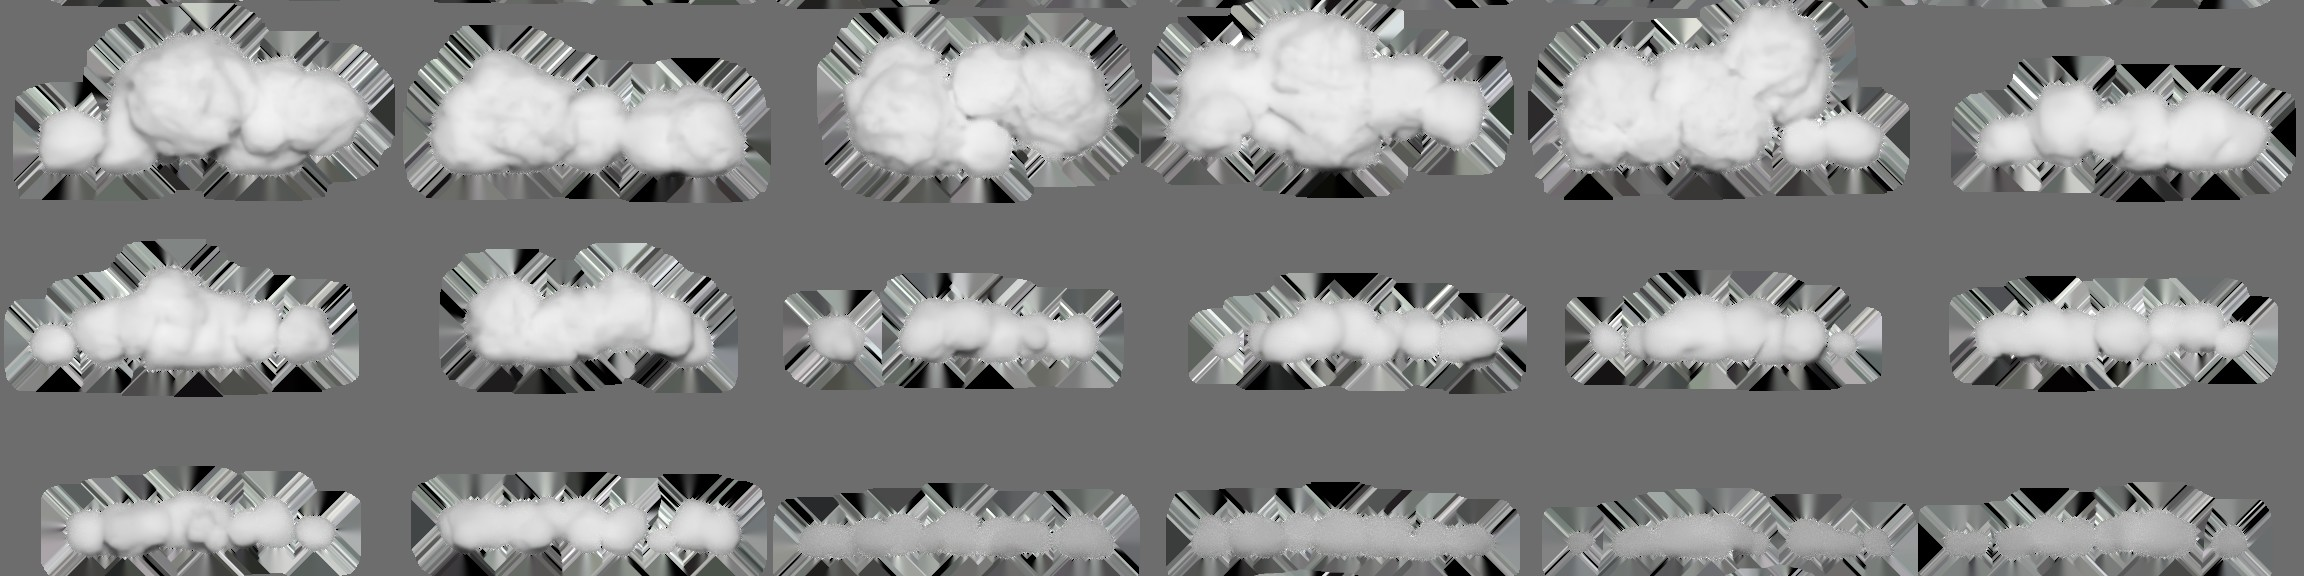
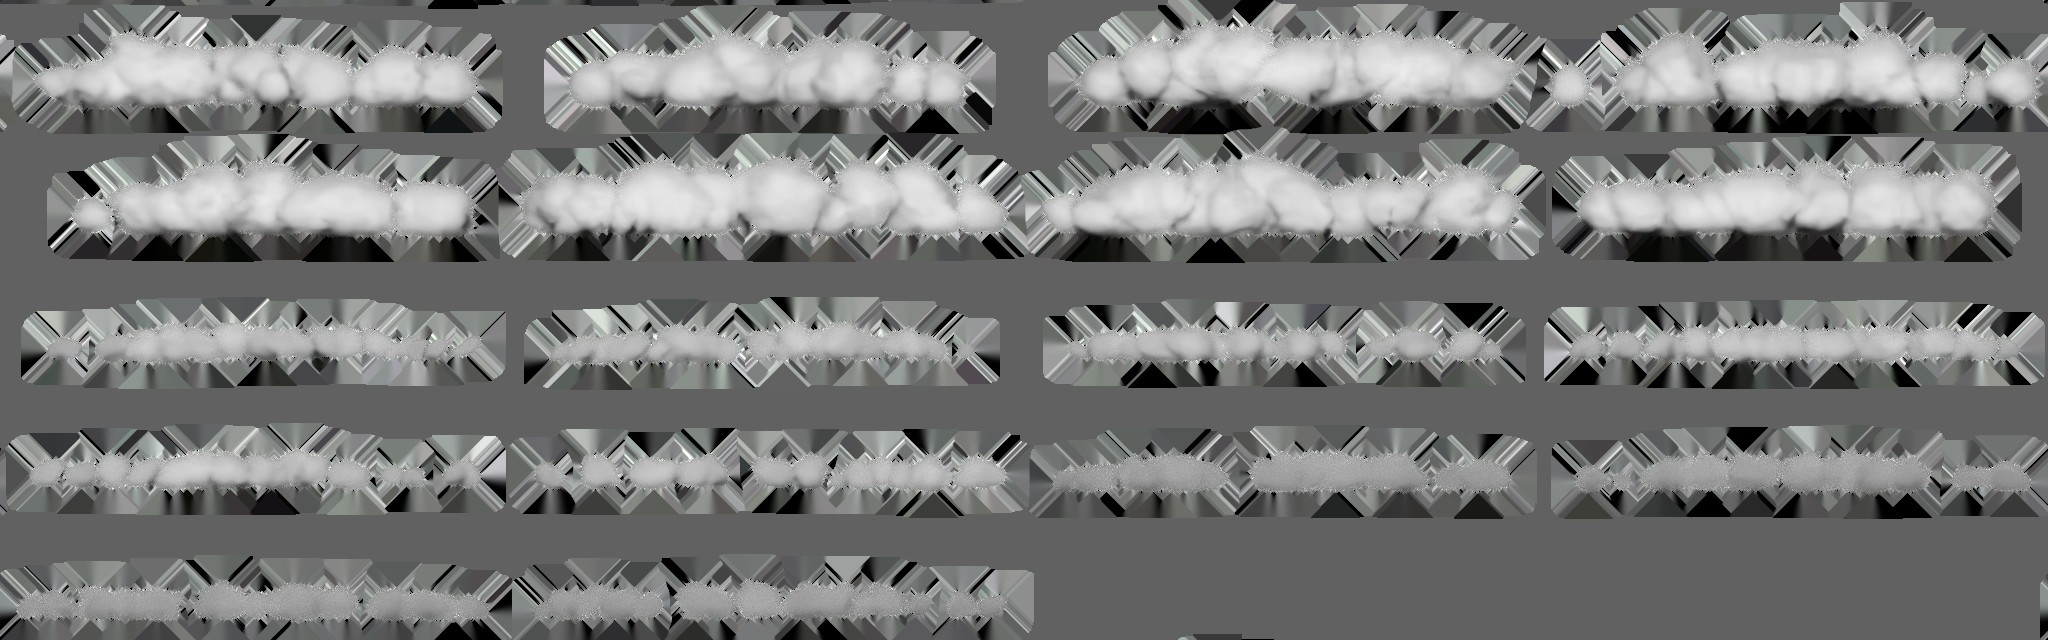
Make the clouds broader, flatter and see-through near the sun
Re-render the cloud sprites as wide stratocumulus slabs, altocumulus sheets and
feathery high patches with ragged, thin edges. Scatter fewer, larger pieces so
the sky covered matches the forecast, part them around the sun as far as the
forecast says it shows, tone down the backlit rims and remove half-faded ghosts.

Claude-Session: https://claude.ai/code/session_01Huiiu14ivU9DpxLptya8pi

diff --git a/index.html b/index.html
@@ -694,9 +694,9 @@ function sunLayers(az, app) {
 const SKYI = {rel0: -100, alt1: 30, ppd: 16, w: 3840, h: 736};
 const LANDI = {az0: 200, alt1: 20, ppd: 24, w: 4800, h: 864};   // replaced by land_meta.json once loaded
 const DECKS = [ // cloud base height (m), sprite kind, angular width of one cloud (rad), wind multiplier at that height
-  {key: "cloud_cover_high", kind: "high", h: 9000, ang: .22, wind: 3},
-  {key: "cloud_cover_mid", kind: "mid", h: 4000, ang: .17, wind: 2},
-  {key: "cloud_cover_low", kind: "low", h: 1300, ang: .24, wind: 1.3}];
+  {key: "cloud_cover_high", kind: "high", h: 9000, ang: .5, wind: 3},
+  {key: "cloud_cover_mid", kind: "mid", h: 4000, ang: .42, wind: 2},
+  {key: "cloud_cover_low", kind: "low", h: 1300, ang: .5, wind: 1.3}];
 // a deck keeps the sun until it sinks below that deck's own horizon (Earth radius 6371 km), plus refraction on the way in:
 // about 1.7 deg below the horizon at 1.3 km, 2.6 deg at 4 km and 3.6 deg at 9 km
 for (const d of DECKS) d.thr = -(Math.acos(6371e3 / (6371e3 + d.h)) / rad + .57);
@@ -778,7 +778,7 @@ function buildCloudField(seed) {
     for (let r = r0; r < 300000; r *= q) {
       const L = 2.4 * r * Math.sqrt(q), sprites = CS.meta ? CS.meta.sprites.filter(s => s.kind === d.kind) : [];
       const inst = [];
-      for (let k = 0; k < 300; k++) inst.push({x: (R() - .5) * L, y: (R() - .5) * L, u: R(), s: .7 + .6 * R(), sp: sprites[(R() * sprites.length) | 0], flip: R() < .5});
+      for (let k = 0; k < 110; k++) inst.push({x: (R() - .5) * L, y: (R() - .5) * L, u: R(), s: .7 + .6 * R(), sp: sprites[(R() * sprites.length) | 0], flip: R() < .5});
       tiers.push({r, L, inst});
     }
     d.tiers = tiers;
@@ -792,7 +792,7 @@ function relightClouds(sun, L, W) {
   CS.key = key; CS.at = now;
   const below = clamp((1.5 - sun.app) / 2.5), side = 1 - below * .7;
   const amb = keyed(UNLIT, sun.app)[0].map(v => Math.min(255, v * 1.12));
-  const BINS = [[1, 0], [.35, .45], [0, 1]];   // [back, front] weights: toward the sun, side-on, away from it
+  const BINS = [[.6, .15], [.25, .5], [0, 1]];   // [back, front] weights: toward the sun, side-on, away from it
   for (const [di, d] of DECKS.entries()) {
     if (!show[di]) continue;
     const lit = deckLight(sun.app, d.h, L.aod), ramp = clamp((sun.app - d.thr) / .6) * clamp((24 - sun.app) / 14 + .35);
@@ -812,7 +812,7 @@ function relightClouds(sun, L, W) {
     });
   }
 }
-function drawDeck(deck, sun, L, W) {
+function drawDeck(deck, sun, L, W, sunVis) {
   if (!CS.ready || !deck.tiers || Math.max(L[deck.key], W[deck.key]) < 2) return;
   const wdir = ((state.ev && state.ev.at.L.wind_direction_10m) ?? 250) * rad;     // the direction the wind blows from
   const v = (L.wind_speed_10m || 8) / 3.6 * deck.wind * cloudClock, dx = -Math.sin(wdir) * v, dy = -Math.cos(wdir) * v;
@@ -829,20 +829,23 @@ function drawDeck(deck, sun, L, W) {
       let az = Math.atan2(x, y) / rad; az += 360 * Math.round((V.c - az) / 360);
       if (az < azL || az > azR) continue;
       const west = clamp(Math.cos((az - 260) * rad)) * clamp((r - 4000) / 50000);
-      const cov = lerp(Lc, Wc, west), a = clamp((cov - c.u) * 6) * clamp((1.3 - Math.abs(tb)) / .5);
+      const cov = lerp(Lc, Wc, west), a = clamp((cov - c.u) * 16) * clamp((1.3 - Math.abs(tb)) / .12);
       if (a < .02) continue;
       list.push([r, az, a, c, cov]);
     }
     list.sort((p, q) => q[0] - p[0]);
     for (const [r, az, a, c, cov] of list) {
-      const wM = T.r * deck.ang * c.s * (.7 + .7 * cov), drop = .87 * r * r / 12742e3;
+      const wM = T.r * deck.ang * c.s * (.85 + .35 * cov), drop = .87 * r * r / 12742e3;
       const eb = Math.atan((deck.h - 12 - drop) / r) / rad;                // the cloud base
       const wpx = wM / r / rad * V.ppd, hpx = wpx * ch / cw;
       const yb = cy(eb), x0 = cx(az) - wpx / 2, y0 = yb - c.sp.base * hpx;
       if (x0 > Wd || x0 + wpx < 0 || y0 > cy(dip) || yb + hpx < 0) continue;
       const fadeLow = clamp((eb - dip) / 1.2 + .15);                      // thinning into the horizon haze
+      // where the forecast says the sun gets through, the clouds part around it
+      const halfW = wpx / V.ppd / 2, dSun = Math.hypot((az - sun.az) * Math.cos(eb * rad), eb + halfW * .12 - sun.app);
+      const gap = sun.app > -1 ? 1 - sunVis * .85 * clamp(1 - (dSun - 3) / (halfW * .6 + 5)) : 1;
       const d = Math.abs(((az - sun.az + 540) % 360) - 180), bin = d < 35 ? 0 : d < 100 ? 1 : 2;
-      ctx.globalAlpha = a * fadeLow;
+      ctx.globalAlpha = a * fadeLow * gap;
       if (c.flip) { ctx.save(); ctx.translate(x0 + wpx, 0); ctx.scale(-1, 1); ctx.drawImage(c.sp.c[bin], 0, y0, wpx, hpx); ctx.restore(); }
       else ctx.drawImage(c.sp.c[bin], x0, y0, wpx, hpx);
     }
@@ -973,7 +976,7 @@ function renderCine(t) {
   const tt = performance.now() / 1000;
   if (sun.app > -.4 && !hidden && sunVis > .08 && onScreen) drawGlitter(sun, L, sunVis, tt);
   // clouds, high to low
-  if (CS.ready) { relightClouds(sun, L, W); for (const d of DECKS) drawDeck(d, sun, L, W); }
+  if (CS.ready) { relightClouds(sun, L, W); for (const d of DECKS) drawDeck(d, sun, L, W, sunVis); }
   // scenery: Blender shading x ambient light, then aerial perspective using the sky itself as the haze colour
   const fogA = clamp(Math.max((5000 - L.visibility) / 5000, isFog(L) ? .65 : 0));
   const g = offA.getContext("2d"), lb = landBox();

diff --git a/blender/clouds.py b/blender/clouds.py
@@ -1,6 +1,7 @@
 # Renders volumetric cloud sprites for the page to scatter over each cloud deck and light live:
-#   18 clouds (8 cumulus / stratocumulus heaps for the low deck, 6 altocumulus puffs for the mid deck, 4 soft cirrocumulus
-#   patches for the high deck), each a cube of procedural density (lumpy blobs eroded by noise, flat base) in Cycles.
+#   18 broad cloud masses (8 stratocumulus slabs for the low deck, 6 altocumulus sheets for the mid deck, 4 feathery patches
+#   for the high deck), each a box of procedural density (flattened lobes eroded by noise into ragged edges and holes,
+#   flat base, thin enough at the edges for the sun to glow through) in Cycles.
 # Every cloud is rendered under four lights, saved as opaque colour atlases the page tints and adds up, plus one alpha atlas:
 #   cloud_amb.jpg    skylight only (bright dome above, dark sea below)
 #   cloud_back.jpg   sun low behind the cloud, toward the camera: silver linings, glow through thin parts
@@ -14,7 +15,7 @@ import numpy as np
 
 OUT = sys.argv[sys.argv.index("--") + 1:][0]
 os.makedirs(OUT, exist_ok=True)
-CW, CH, COLS = 384, 192, 6          # sprite cell size (px), atlas columns
+CW, CH, COLS = 512, 128, 4          # sprite cell size (px, a 4 x 1 unit frame), atlas columns
 for o in list(bpy.data.objects): bpy.data.objects.remove(o, do_unlink=True)
 sc = bpy.context.scene
 sc.render.engine = "CYCLES"
@@ -28,9 +29,9 @@ sc.render.resolution_x, sc.render.resolution_y, sc.render.resolution_percentage 
 sc.render.image_settings.file_format = "OPEN_EXR"; sc.render.image_settings.color_mode = "RGBA"
 sc.view_settings.view_transform = "Standard"
 
-# camera: orthographic, looking north (+Y) at a 2 x 1 unit frame; cloud bases sit at z = 0, a little above the frame bottom
-BASE_Y = 0.12                        # fraction of the frame height below the base (room for the eroded underside)
-cd = bpy.data.cameras.new("c"); cd.type = "ORTHO"; cd.ortho_scale = 2.0
+# camera: orthographic, looking north (+Y) at a 4 x 1 unit frame; cloud bases sit at z = 0, a little above the frame bottom
+BASE_Y = 0.2                         # fraction of the frame height below the base (room for the eroded underside)
+cd = bpy.data.cameras.new("c"); cd.type = "ORTHO"; cd.ortho_scale = 4.0
 cam = bpy.data.objects.new("c", cd); cam.location = (0, -10, 0.5 - BASE_Y); cam.rotation_euler = (math.radians(90), 0, 0)
 sc.collection.objects.link(cam); sc.camera = cam
 
@@ -51,7 +52,7 @@ LIGHTS = {"amb": None, "back": (0, -1, -0.09), "front": (0, 1, -0.17), "below": 
 ENERGY = {"back": 3.2, "front": 8.0, "below": 4.0}   # sun strength per pass, so each fills the 8-bit range
 
 bpy.ops.mesh.primitive_cube_add(size=1); box = bpy.context.object
-box.scale = (2.0, 1.2, 1.1); box.location = (0, 0, 0.45)
+box.scale = (4.0, 2.0, 1.0); box.location = (0, 0, 0.3)
 
 def cloud_material(blobs, base_soft, erode, dens_scale, seed):
     m = bpy.data.materials.new("cloud"); m.use_nodes = True
@@ -88,7 +89,7 @@ def cloud_material(blobs, base_soft, erode, dens_scale, seed):
     l.new(fb.outputs["Fac"], er.inputs[0])
     sh = n.new("ShaderNodeMath"); sh.operation = "ADD"; l.new(shape, sh.inputs[0]); l.new(er.outputs[0], sh.inputs[1])
     dn = n.new("ShaderNodeMapRange"); dn.interpolation_type = "SMOOTHSTEP"
-    dn.inputs["From Min"].default_value = 0.0; dn.inputs["From Max"].default_value = 0.16; l.new(sh.outputs[0], dn.inputs["Value"])
+    dn.inputs["From Min"].default_value = 0.0; dn.inputs["From Max"].default_value = 0.3; l.new(sh.outputs[0], dn.inputs["Value"])
     # flat, slightly ragged base at z = 0
     sz = n.new("ShaderNodeSeparateXYZ"); l.new(p, sz.inputs[0])
     bs = n.new("ShaderNodeMapRange"); bs.interpolation_type = "SMOOTHSTEP"
@@ -107,18 +108,17 @@ def heap(R, n_blobs, width, height, flat, rmin, rmax):
         dome = math.sqrt(max(0.0, 1 - (x / (width * 1.15)) ** 2))
         r = R.uniform(rmin, rmax) * (0.6 + 0.6 * dome)
         z = r * flat + R.uniform(0, height) * dome
-        out.append((x, R.uniform(-0.15, 0.15), z, r))
+        out.append((x, R.uniform(-0.45, 0.45), z, r))
     return out
 
 R = random.Random(11)
 SPRITES = []
-for i in range(8):   # low: cumulus heaps and stratocumulus rolls
-    tall = i < 5
-    SPRITES.append(("low", heap(R, 14, R.uniform(.55, .78), .42 if tall else .14, .55, .13, .3 if tall else .2), .035, .8, 40, i))
-for i in range(6):   # mid: altocumulus, flatter clumps of small puffs
-    SPRITES.append(("mid", heap(R, 22, R.uniform(.6, .8), .08, .7, .07, .14), .03, .7, 28, 20 + i))
-for i in range(4):   # high: thin, soft cirrocumulus patches
-    SPRITES.append(("high", heap(R, 26, .8, .04, .5, .06, .12), .05, .9, 9, 40 + i))
+for i in range(8):   # low: stratocumulus, broad lumpy slabs with breaks
+    SPRITES.append(("low", heap(R, 34, R.uniform(1.4, 1.8), R.uniform(.1, .22), .45, .14, .3), .05, 1.1, 20, i))
+for i in range(6):   # mid: altocumulus sheets, rows of small rounded elements with holes between
+    SPRITES.append(("mid", heap(R, 48, R.uniform(1.5, 1.8), .05, .55, .07, .15), .04, 1.2, 14, 20 + i))
+for i in range(4):   # high: thin, feathery patches
+    SPRITES.append(("high", heap(R, 44, 1.8, .03, .4, .08, .17), .06, 1.3, 5, 40 + i))
 
 def read_exr(path):
     img = bpy.data.images.load(path); w, h = img.size
@@ -170,5 +170,5 @@ for k, arr in atl.items():
     srgb = np.where(lin <= 0.0031308, lin * 12.92, 1.055 * np.power(np.clip(lin, 0, None), 1 / 2.4) - 0.055)
     save(srgb, f"cloud_{k}.jpg", "JPEG")
 save(np.dstack([np.ones_like(alpha)] * 3 + [alpha]), "cloud_alpha.webp", "WEBP", rgba=True)
-json.dump({"cell": [CW, CH], "frame": [2.0, 1.0], "sprites": meta}, open(os.path.join(OUT, "clouds.json"), "w"), indent=1)
+json.dump({"cell": [CW, CH], "frame": [4.0, 1.0], "sprites": meta}, open(os.path.join(OUT, "clouds.json"), "w"), indent=1)
 print("DONE", flush=True)

diff --git a/README.md b/README.md
@@ -35,8 +35,8 @@ blender -b --factory-startup -P blender/clouds.py -- assets/clouds
 `land.py` turns that grid into a 2-million-face terrain mesh around the hand-built foreground (`fg_ebay.py`, the Inukshuk point) and
 Stanley Park (`sp_ebay.py`), adds the West End and Coal Harbour from survey data (`city_ebay.py`: City of Vancouver building
 footprints with LiDAR heights, OpenStreetMap towers built since 2009, and the City's public trees), and renders the skylit scenery, a haze-distance layer and direct sunlight for 56 sun positions; the page
-tints that sunlight by the air mass and the forecast aerosol depth. `clouds.py` renders 18 volumetric clouds (cumulus heaps, altocumulus,
-cirrocumulus patches) under skylight and three sun directions; the page scatters them over each cloud deck by the forecast
+tints that sunlight by the air mass and the forecast aerosol depth. `clouds.py` renders 18 broad volumetric cloud masses (stratocumulus slabs,
+altocumulus sheets, feathery high patches) under skylight and three sun directions; the page scatters them over each cloud deck by the forecast
 cover, drifts them with the wind and lights them for the sun's position. The sky frames are in sun-relative azimuth, so the page slides them
 to the sun's true bearing for any day of the year.
 
